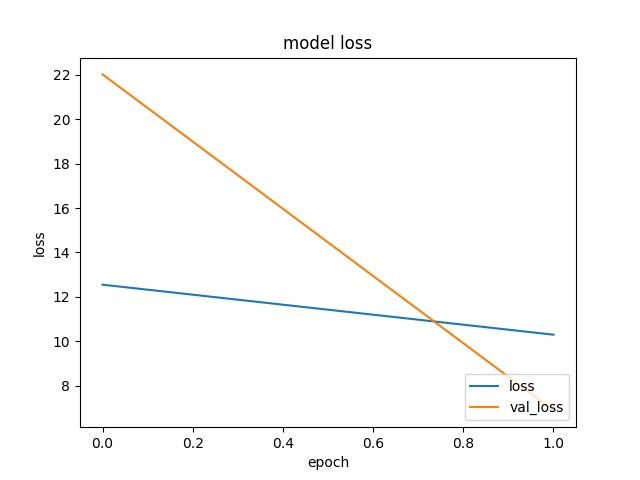
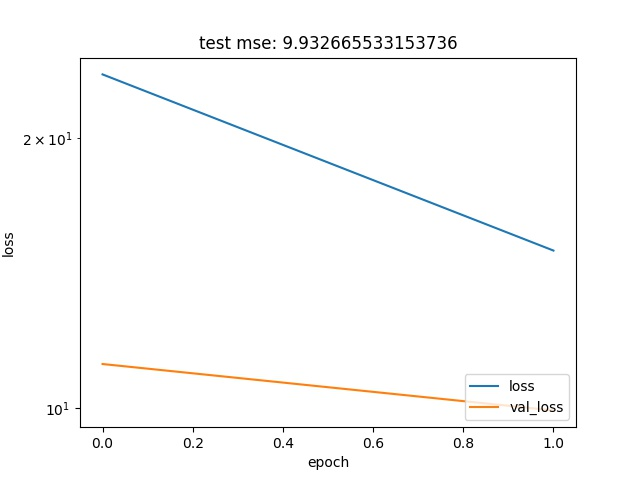
0105

diff --git a/batch/0105.py b/batch/0105.py
@@ -124,23 +124,25 @@ def custom_model_4(inputs):
     SVG(model_to_dot(model, show_shapes = True).create(prog='dot', format='svg'))
     return model
 
-def custom_fit(model, inputs, label):
+def custom_fit(model, inputs, label, validation_data):
     # callback = EarlyStopping(monitor='val_loss', patience=10, verbose=1)
     history = model.fit(np.array(inputs), np.array(label),
                         batch_size=4096,
                         epochs=100,
                         verbose=1,
-                        validation_split=0.1,
+                        validation_data=validation_data,
                         # callbacks=[callback]
                        )
     return (model, history)
 
 
-def plot_history(history, file_name):
+def plot_history(history, file_name, min_loss):
     # 損失の履歴をプロット
+    plt.figure()
     plt.plot(history.history['loss'])
     plt.plot(history.history['val_loss'])
-    plt.title('model loss')
+    plt.title('test mse: {0}'.format(min_loss))
+    plt.yscale("log")
     plt.xlabel('epoch')
     plt.ylabel('loss')
     plt.legend(['loss', 'val_loss'], loc='lower right')
@@ -160,54 +162,54 @@ test_label = test_data[label_cols[0]]
 # 1
 model_name = "model_1"
 min_loss = 1e10
-for i in range(1,10):
+for i in range(1,5):
     model = custom_model_1(train_inputs)
-    model, history = custom_fit(model, train_inputs, train_label)
+    model, history = custom_fit(model, train_inputs, train_label, ((np.array(test_inputs)), (np.array(test_label))))
     loss = mean_squared_error(model.predict(np.array(test_inputs)), test_label)
     if loss < min_loss:
        min_loss = loss
        best_model = model
        best_history = history
-plot_history(best_history, model_name)
+plot_history(best_history, model_name, min_loss)
 
 # 2
 model_name = "model_2"
 min_loss = 1e10
-for i in range(1,10):
+for i in range(1,5):
     model = custom_model_2(train_inputs)
-    model, history = custom_fit(model, train_inputs, train_label)
+    model, history = custom_fit(model, train_inputs, train_label, ((np.array(test_inputs)), (np.array(test_label))))
     loss = mean_squared_error(model.predict(np.array(test_inputs)), test_label)
     if loss < min_loss:
        min_loss = loss
        best_model = model
        best_history = history
-plot_history(best_history, model_name)
+plot_history(best_history, model_name, min_loss)
 
 # 3
 model_name = "model_3"
 min_loss = 1e10
-for i in range(1,10):
+for i in range(1,5):
     model = custom_model_3(train_inputs)
-    model, history = custom_fit(model, train_inputs, train_label)
+    model, history = custom_fit(model, train_inputs, train_label, ((np.array(test_inputs)), (np.array(test_label))))
     loss = mean_squared_error(model.predict(np.array(test_inputs)), test_label)
     if loss < min_loss:
        min_loss = loss
        best_model = model
        best_history = history
-plot_history(best_history, model_name)
+plot_history(best_history, model_name, min_loss)
 
 # 4
 model_name = "model_4"
 min_loss = 1e10
-for i in range(1,10):
+for i in range(1,5):
     model = custom_model_4(train_inputs)
-    model, history = custom_fit(model, train_inputs, train_label)
+    model, history = custom_fit(model, train_inputs, train_label, ((np.array(test_inputs)), (np.array(test_label))))
     loss = mean_squared_error(model.predict(np.array(test_inputs)), test_label)
     if loss < min_loss:
        min_loss = loss
        best_model = model
        best_history = history
-plot_history(best_history, model_name)
+plot_history(best_history, model_name, min_loss)
 # learning---------------------------------------------------------
 
 
